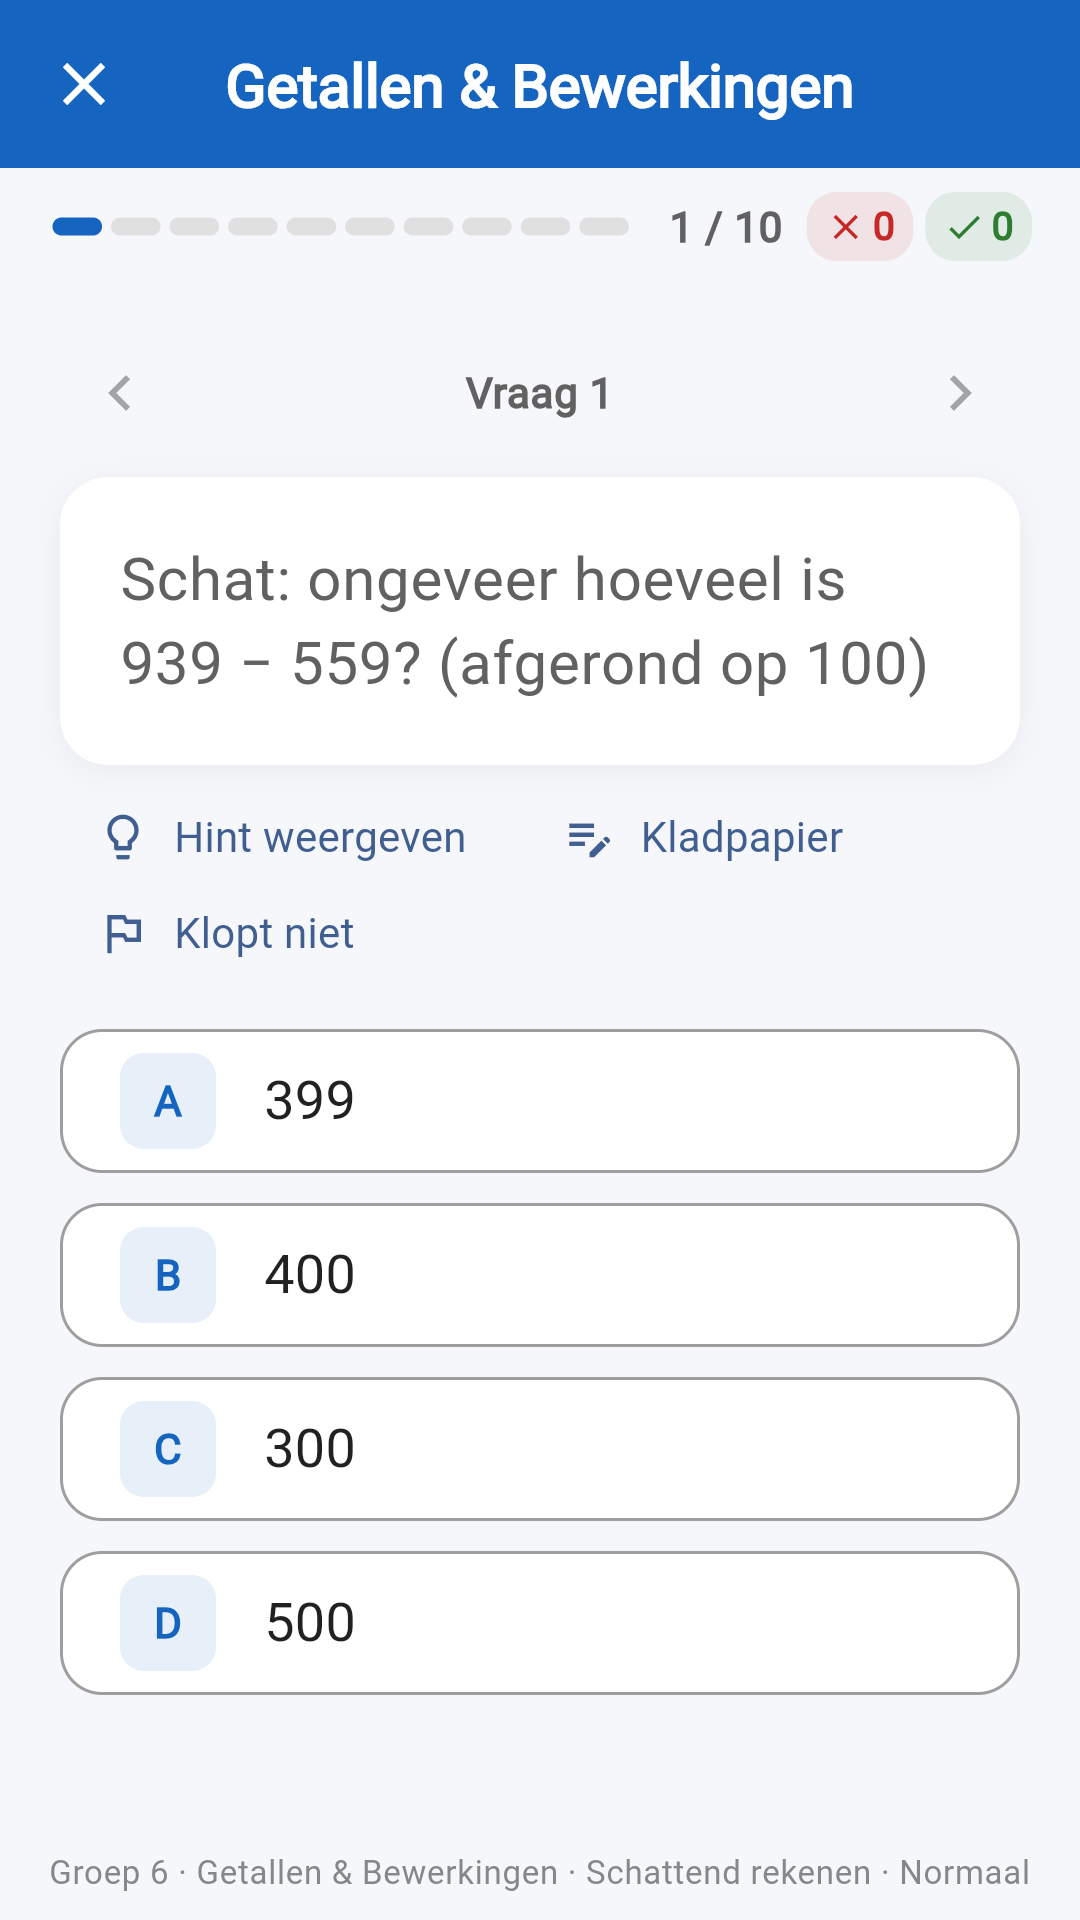
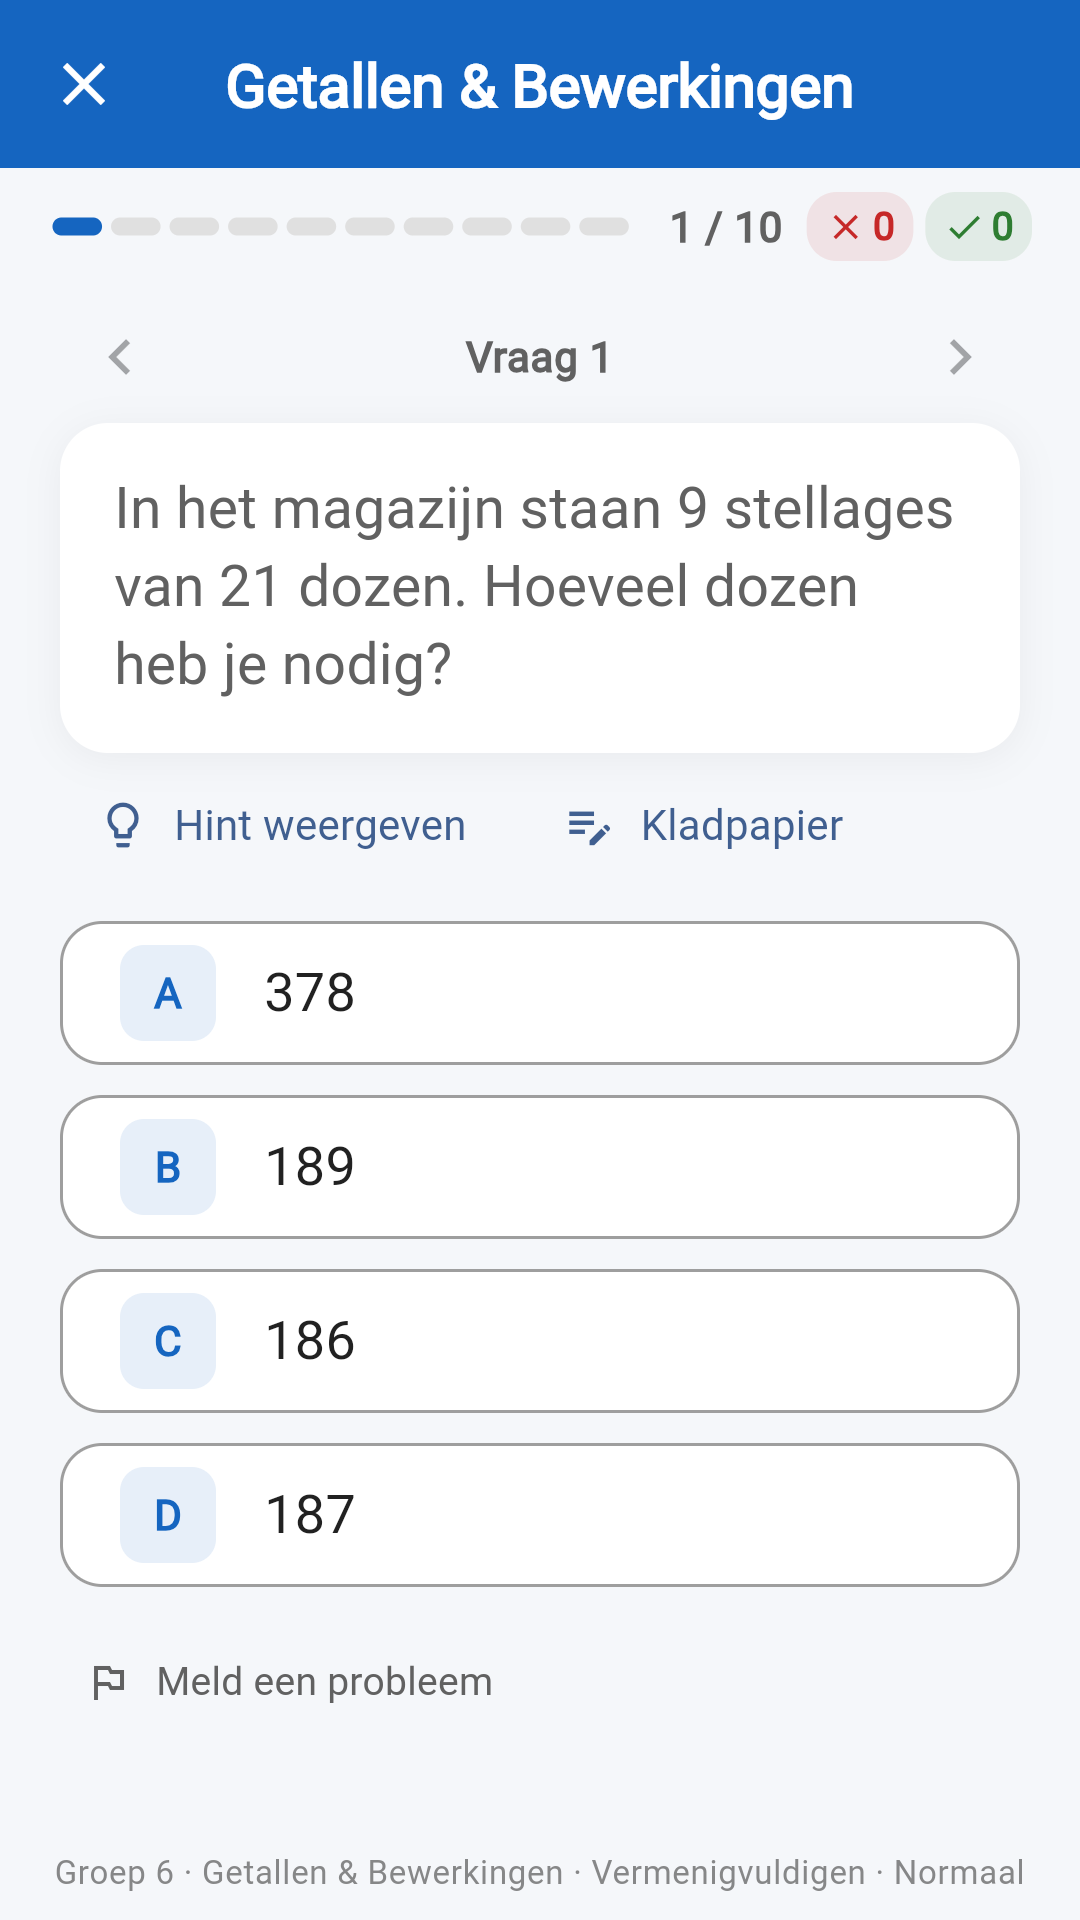
Nieuwe functies op de productpagina, changelog t/m v1.27.0
De site liep drie releases achter. Toegevoegd:
- v1.25.0 (taalcontrole van 14 naar 54 regels)
- v1.26.0 (rekenwerk doorgelicht over 100.800 vragen)
- v1.27.0 (rustiger vraagscherm, delen, ouderoverzicht)

Op de productpagina en in "visie en functies" staan nu ook de drie nieuwe
functies: het overzicht voor ouders, het weekbeeld zonder reeks, en het
delen van een resultaat als tekstblok.

De schermafbeeldingen zijn opnieuw geschoten uit de huidige build. De oude
toonden nog de indeling waarin de meldknop boven de antwoorden stond.

diff --git a/rekenappie/changelog.html b/rekenappie/changelog.html
@@ -36,7 +36,7 @@
     <p class="lead">Alle releases sinds de eerste versie, met per release wat er
     is toegevoegd, gewijzigd en hersteld. Versies vóór de publicatie in de
     Google Play Store zijn ontwikkelreleases; ze staan hier volledigheidshalve.</p>
-    <p class="meta">Laatste release: 1.24.0 · 20 augustus 2026</p>
+    <p class="meta">Laatste release: 1.27.0 · 21 augustus 2026</p>
   </div>
 </section>
 
@@ -48,6 +48,82 @@
     SLO-tussendoelen, gevolgd door het wegwerken van elk gat dat daarbij aan het
     licht kwam. Daarnaast alles wat nodig is voor publicatie: ondertekening,
     privacyverklaring, in-app producten en winkelmateriaal.</p>
+  </div>
+
+  <div class="release">
+    <div class="release__side">
+      <span class="version">1.27.0</span>
+      <span class="release__date">21 augustus 2026</span>
+      <span class="tag">Interface</span>
+    </div>
+    <div>
+      <h3>Rustiger vraagscherm, delen en een ouderoverzicht</h3>
+      <ul>
+        <li>De verticale as van een grafiek gebruikt nu ronde getallen op
+        gelijke afstanden. Bij een hoogste waarde van 25 dus 10, 20 en 30 in
+        plaats van 8, 15, 23 en 30.</li>
+        <li>De meldknop stond boven de antwoorden en duwde die van het scherm
+        af; hij staat nu onderaan en heet "Meld een probleem".</li>
+        <li>De vraagtekst is niet meer vet en er is lucht weggehaald boven de
+        vraag: op een telefoon passen alle vier de antwoorden zonder scrollen.</li>
+        <li>Nieuw: <strong>deel het resultaat</strong> — een kort tekstblok met
+        vak, groep, niveau en score, zonder naam of profiel.</li>
+        <li>Nieuw: <strong>een overzicht voor ouders</strong> met wat er deze
+        week is geoefend en waar het kind vastloopt, met per onderdeel een knop
+        om er meteen op te oefenen.</li>
+        <li>De tafelmodus met uitkomsten tot 1.000.000 is verwijderd: geen
+        leerdoel, en hij vervuilde de voortgang.</li>
+      </ul>
+    </div>
+  </div>
+
+  <div class="release">
+    <div class="release__side">
+      <span class="version">1.26.0</span>
+      <span class="release__date">20 augustus 2026</span>
+      <span class="tag">Kwaliteit</span>
+    </div>
+    <div>
+      <h3>Rekenwerk doorgelicht, groep voor groep</h3>
+      <ul>
+        <li>Nieuwe controle over <strong>100.800 vragen</strong> in 504
+        combinaties van onderwerp, groep, onderdeel en niveau: klopt de som,
+        klopt het antwoord, past het niveau bij de groep, en loopt de
+        moeilijkheid werkelijk op van makkelijk naar moeilijk.</li>
+        <li>De breuk 1/8 werd getoond als 0,13 terwijl het antwoord 0,125 is:
+        de getalopmaak rondde altijd op twee decimalen af, ook waar de vraag om
+        drie vroeg.</li>
+        <li>Groep 4 kreeg een telrij die bij −5 begon. Negatieve getallen zijn
+        bovenbouwstof.</li>
+        <li>Bij geld en inhoud werd de vraagsoort willekeurig gekozen, los van
+        de moeilijkheid — waardoor "makkelijk" gemiddeld zwaarder was dan
+        "moeilijk". De moeilijkheid bepaalt nu ook wélke vraag je krijgt.</li>
+      </ul>
+    </div>
+  </div>
+
+  <div class="release">
+    <div class="release__side">
+      <span class="version">1.25.0</span>
+      <span class="release__date">20 augustus 2026</span>
+      <span class="tag">Taal</span>
+    </div>
+    <div>
+      <h3>Taalcontrole van 14 naar 54 regels</h3>
+      <ul>
+        <li>Elke vraagvorm wordt nagelezen op 54 taalregels: zinsstructuur en
+        interpunctie, telegram versus boekwerk, voorzetsels, lidwoord en
+        geslacht, getalcongruentie, werkwoordsvormen, woordvolgorde, register
+        en notatie. Eerste ronde: 736 kapotte sjablonen; daarna nul.</li>
+        <li>220 telegramzinnen herschreven tot hele zinnen: <em>"Hoeveel
+        stoelen in totaal?"</em> werd <em>"Hoeveel stoelen zijn er in
+        totaal?"</em></li>
+        <li>Zes opgaven bevatten twee vragen met maar één antwoordveld;
+        allemaal teruggebracht tot één vraag.</li>
+        <li>Notatie rechtgezet: een spatie tussen getal en eenheid, het echte
+        minteken, en het juiste meervoud na een telwoord.</li>
+      </ul>
+    </div>
   </div>
 
   <div class="release">

diff --git a/rekenappie/visie.html b/rekenappie/visie.html
@@ -36,7 +36,7 @@
     <p class="lead">Wat RekenAppie is, waarom hij zo werkt als hij werkt, en
     wat er precies in zit — van de vier rekendomeinen tot het kladpapier en de
     manier waarop de moeilijkheid meebeweegt.</p>
-    <p class="meta">Versie 1.24.0 · 20 augustus 2026</p>
+    <p class="meta">Versie 1.27.0 · 21 augustus 2026</p>
   </div>
 </section>
 
@@ -344,6 +344,28 @@
         <p>Een overzicht van eerdere sessies. Een record telt alleen als de
         sessie lang genoeg was en goed genoeg ging — een half afgemaakte ronde
         bederft je beste resultaat niet.</p>
+      </div>
+      <div>
+        <h3>Een overzicht voor de ouder</h3>
+        <p>De voortgang in de app is voor het kind: wat ging goed. Een ouder
+        heeft een andere vraag — waar loopt mijn kind vast, en wat moet ik
+        oefenen? Dat staat in een eigen scherm, met per onderdeel een knop om
+        er meteen op te oefenen. Er zit een rekensommetje voor: geen slot,
+        want alles staat toch al op dit toestel, maar wel genoeg drempel om
+        het niet het scherm van het kind te laten worden.</p>
+      </div>
+      <div>
+        <h3>Deze week, zonder reeks</h3>
+        <p>Hoeveel sommen, op hoeveel dagen, hoeveel minuten, en hoeveel
+        procent goed. Nadrukkelijk een telling en geen streak: er gaat niets
+        stuk als je een dag overslaat. Dat verschil is het hele punt.</p>
+      </div>
+      <div>
+        <h3>Delen zonder server</h3>
+        <p>Na een sessie kun je een kort tekstblok delen — vak, groep, niveau,
+        en een rij groene en rode blokjes. Geen naam, geen profiel, geen datum,
+        geen link naar een resultaat op een server. Het gaat pas weg als
+        iemand zelf op verzenden drukt.</p>
       </div>
       <div>
         <h3>Nederlands en Engels</h3>

diff --git a/rekenappie/index.html b/rekenappie/index.html
@@ -163,6 +163,19 @@
         foute antwoorden teruglezen met de goede erbij — inclusief de mogelijkheid
         om juist die fouten nog eens te oefenen.</p>
       </div>
+      <div>
+        <h3>Voor ouders</h3>
+        <p>Een apart overzicht — achter een rekensommetje, zodat het niet het
+        scherm van het kind wordt — met wat er deze week is geoefend en bij
+        welke onderdelen het nog niet loopt. Per onderdeel een knop om er
+        meteen mee aan de slag te gaan.</p>
+      </div>
+      <div>
+        <h3>Deel het resultaat</h3>
+        <p>Na een sessie kun je een kort tekstblok delen: vak, groep, niveau
+        en hoe het ging. Geen naam, geen profiel, geen link naar een server —
+        en het gaat pas weg als een volwassene zelf op verzenden drukt.</p>
+      </div>
     </div>
   </section>
 
